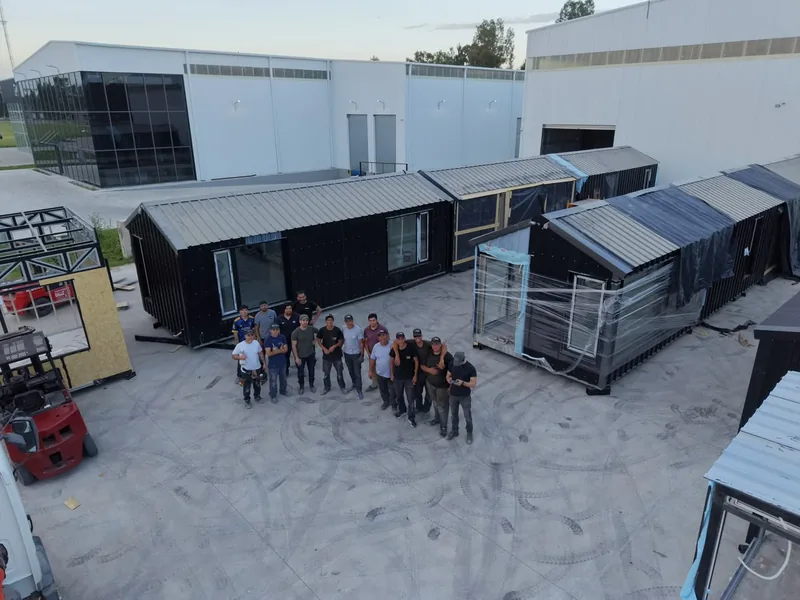
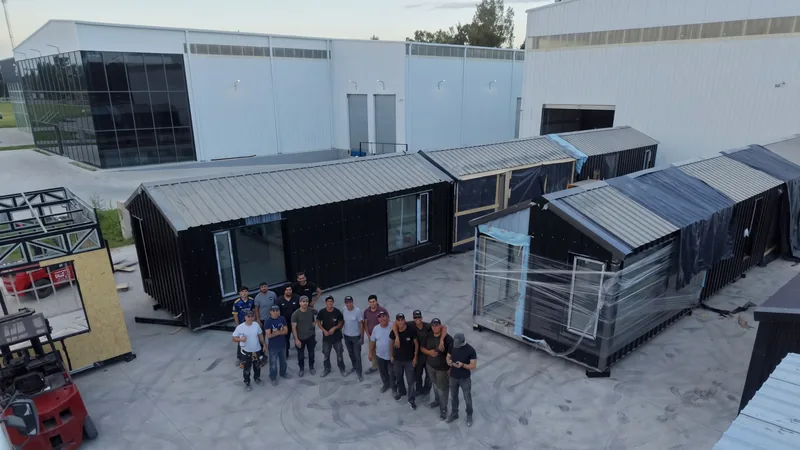
Foto del equipo en alta y escena de la fabrica mas baja

diff --git a/assets/css/atlas.css b/assets/css/atlas.css
@@ -818,27 +818,28 @@ svg.oculto { position: absolute; width: 0; height: 0; overflow: hidden; clip-pat
   position: relative;
   width: 100vw;
   margin-inline: calc(50% - 50vw);
-  min-height: clamp(30rem, 78vh, 52rem);
-  display: flex;
-  align-items: flex-end;
+  /* todo en vw: la foto y el texto guardan la misma relación en cualquier ancho,
+     así el título cae siempre debajo de las caras del equipo */
+  padding-top: 26.5vw;
   overflow: hidden;
 }
-.escena img { position: absolute; inset: 0; width: 100%; height: calc(100% - 2px); object-fit: cover; object-position: 50% 38%; }
+.escena img { position: absolute; inset: 0 0 auto; width: 100%; height: 37vw; object-fit: cover; object-position: 50% 36%; }
 /* la segunda foto aparece y se va sobre la primera: unos 6 s cada una */
-.escena .escena__equipo { opacity: 0; object-position: 50% 96%; animation: escena-cambio 14s ease-in-out infinite; }
+.escena .escena__equipo { opacity: 0; object-position: 50% 99%; animation: escena-cambio 14s ease-in-out infinite; }
 @keyframes escena-cambio { 0%, 43% { opacity: 0; } 50%, 93% { opacity: 1; } 100% { opacity: 0; } }
 @media (prefers-reduced-motion: reduce) { .escena .escena__equipo { animation: none; } }
 .escena::after {
   content: "";
-  position: absolute; inset: 0 0 -1px;   /* tapa el filo de la foto al pie */
+  position: absolute; inset: 0 0 auto;
+  height: calc(37vw + 2px);   /* tapa el filo de la foto al pie */
   /* el degradado tiene que llegar casi opaco hasta donde está el texto:
      la foto de la nave es clara y el título se perdía */
   background: linear-gradient(to top,
     var(--tinta) 0%,
-    color-mix(in srgb, var(--tinta) 96%, transparent) 38%,
-    color-mix(in srgb, var(--tinta) 84%, transparent) 56%,
-    color-mix(in srgb, var(--tinta) 42%, transparent) 76%,
-    color-mix(in srgb, var(--tinta) 8%, transparent) 100%);
+    color-mix(in srgb, var(--tinta) 94%, transparent) 12%,
+    color-mix(in srgb, var(--tinta) 74%, transparent) 28%,
+    color-mix(in srgb, var(--tinta) 28%, transparent) 54%,
+    color-mix(in srgb, var(--tinta) 6%, transparent) 100%);
 }
 .escena__texto {
   position: relative;
@@ -846,7 +847,7 @@ svg.oculto { position: absolute; width: 0; height: 0; overflow: hidden; clip-pat
   width: var(--ancho);
   margin-inline: auto;
   /* el texto se apoya más arriba, lejos del borde inferior */
-  padding-block: clamp(2.5rem, 5vw, 4.5rem) clamp(5rem, 11vw, 9rem);
+  padding-block: 0 clamp(1rem, 2vw, 2rem);
   max-width: min(var(--ancho), 46rem);
   margin-right: auto;
 }
@@ -1163,6 +1164,7 @@ svg.oculto { position: absolute; width: 0; height: 0; overflow: hidden; clip-pat
   /* fábrica: la foto arriba, fundida; el texto en la tinta */
   .escena { min-height: 0; padding-top: max(67vw, 16rem); }
   .escena img { inset: 0 0 auto; height: max(74vw, 18rem); }
+  .escena .escena__equipo { object-position: 40% 100%; }
   .escena::after {
     inset: 0 0 auto; height: calc(max(74vw, 18rem) + 1px);
     background: linear-gradient(to top,

diff --git a/index.html b/index.html
@@ -27,7 +27,7 @@
 <link rel="preconnect" href="https://fonts.gstatic.com" crossorigin>
 <link rel="preload" as="image" href="assets/img/hero.webp?v=1795299995" fetchpriority="high">
 <link rel="stylesheet" href="https://fonts.googleapis.com/css2?family=Poppins:wght@300;400;500;600&display=swap">
-<link rel="stylesheet" href="assets/css/atlas.css?v=1795627115">
+<link rel="stylesheet" href="assets/css/atlas.css?v=1795627625">
 
 <script type="application/ld+json">
 {
@@ -946,7 +946,7 @@
 <section class="seccion seccion--tinta seccion--sangra" id="fabrica">
   <figure class="escena">
     <img src="assets/img/fabrica.webp?v=1795627082" alt="Estructuras de acero en la planta de Atlas Housing en San Vicente" srcset="assets/img/fabrica-800.webp?v=1795627083 800w, assets/img/fabrica-1400.webp?v=1795627083 1400w, assets/img/fabrica.webp?v=1795627082 2200w" sizes="100vw" loading="lazy" decoding="async">
-    <img src="assets/img/fabrica-equipo.webp?v=1795627083" alt="El equipo de Atlas Housing junto a módulos terminados en la planta" srcset="assets/img/fabrica-equipo-800.webp?v=1795627083 800w, assets/img/fabrica-equipo.webp?v=1795627083 1280w" sizes="100vw" loading="lazy" decoding="async" class="escena__equipo">
+    <img src="assets/img/fabrica-equipo.webp?v=1795627570" alt="El equipo de Atlas Housing junto a módulos terminados en la planta" srcset="assets/img/fabrica-equipo-800.webp?v=1795627571 800w, assets/img/fabrica-equipo-1400.webp?v=1795627571 1400w, assets/img/fabrica-equipo.webp?v=1795627570 2200w" sizes="100vw" loading="lazy" decoding="async" class="escena__equipo">
     <figcaption class="escena__texto" data-deriva>
       <span class="rotulo" data-sube>Dónde se construye</span>
       <h2 data-sube>Nuestra fábrica</h2>
@@ -1714,6 +1714,6 @@
 <script src="https://cdnjs.cloudflare.com/ajax/libs/gsap/3.12.5/gsap.min.js" defer></script>
 <script src="https://cdnjs.cloudflare.com/ajax/libs/gsap/3.12.5/ScrollTrigger.min.js" defer></script>
 <script src="https://cdn.jsdelivr.net/npm/lenis@1.1.18/dist/lenis.min.js" defer></script>
-<script src="assets/js/atlas.js?v=1795627115" defer></script>
+<script src="assets/js/atlas.js?v=1795627625" defer></script>
 </body>
 </html>

diff --git a/assets/js/atlas.js b/assets/js/atlas.js
@@ -324,7 +324,7 @@
     gsap.utils.toArray("[data-deriva]").forEach(function (caja) {
       gsap.fromTo(caja, { y: 0 }, {
         // en mobile el texto va debajo de la foto: con todo el recorrido se despegaba de los datos
-        y: function () { return window.innerWidth < 768 ? -24 : -Math.min(window.innerHeight * 0.13, 130); },
+        y: function () { return window.innerWidth < 768 ? -24 : -Math.min(window.innerHeight * 0.13, window.innerWidth * 0.068, 130); },
         ease: "none",
         scrollTrigger: {
           trigger: caja.closest("section") || caja,
